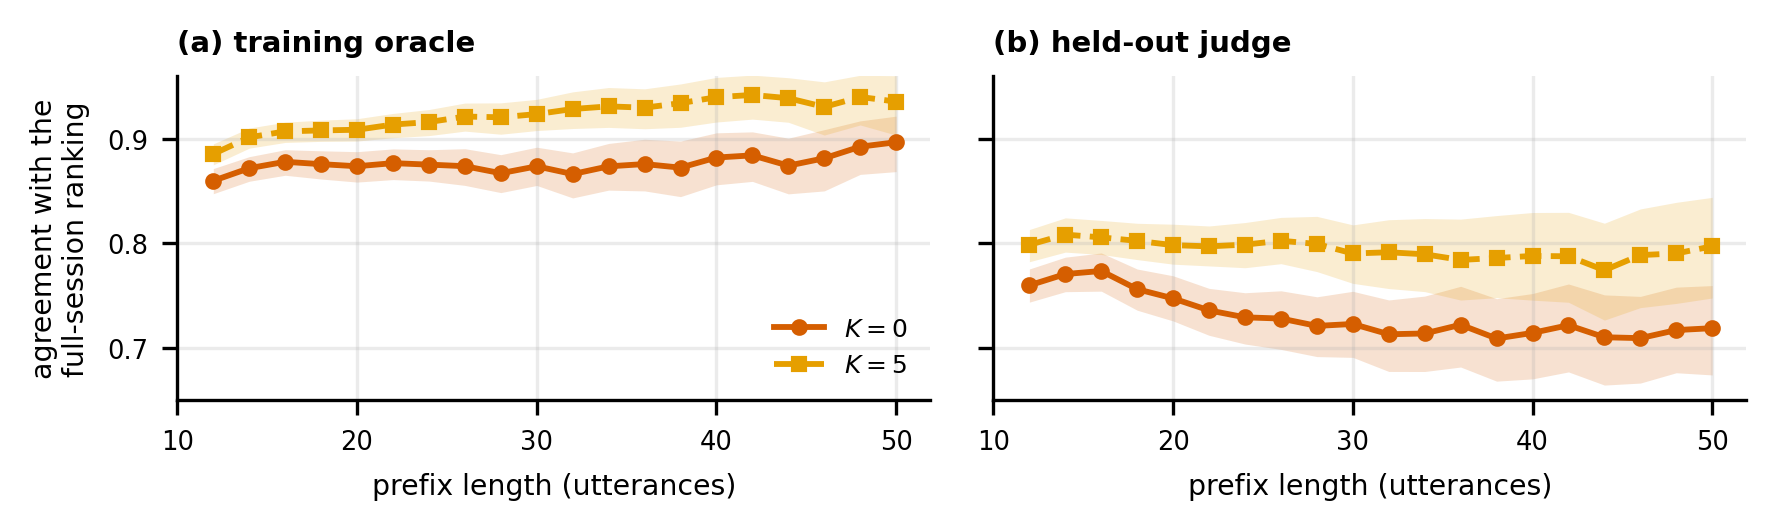
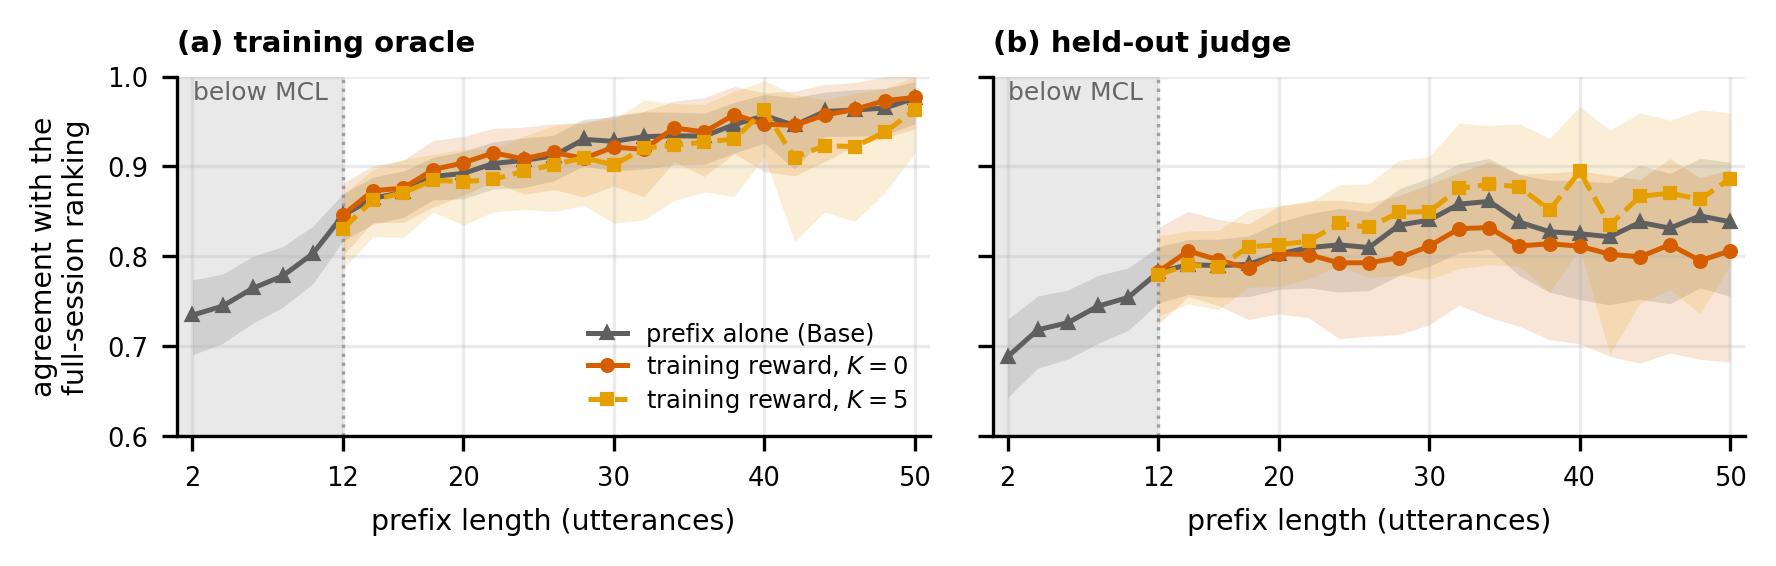
P1 Figure 9: the Base prefix scored alone from 2 utterances beside the iteration-1 training reward, MCL shaded (old pooled version kept as faithfulness_pooled)

diff --git a/papers/2026_grpo_lookahead_mi/render_paper_figures.py b/papers/2026_grpo_lookahead_mi/render_paper_figures.py
@@ -888,6 +888,55 @@ def levels_grid_heldout() -> Path:
 
 
 def faithfulness() -> Path:
+    """Appendix C.1's figure since 2026-10-06 (Lior's round-3 note: the pooled curve below was flat,
+    because MCL=12 removes the part that moves). Per judge panel: the training oracle's score of a
+    Base PREFIX ALONE from 2 utterances (``mechanism.xlsx::faithfulness_prefix_alone_grpo``, pooled
+    over the two Base draws; eda/tools/score_partial.py) and the training reward at the first
+    iteration, which samples from that same Base (``faithfulness_matched_policy_long``, GRPO,
+    ``train_iter_1``), K=0 and K=5, from MCL=12. The region below MCL is shaded. Prints the 2 / 12 /
+    50-utterance values the text quotes."""
+    x = pd.ExcelFile(MECHANISM_XLSX)
+    pa = x.parse("faithfulness_prefix_alone_grpo")
+    pa = pa[pa["sample"] == "pooled"]
+    mp = x.parse(next(s for s in x.sheet_names if s.startswith("faithfulness_matched_policy_lon")))
+    mp = mp[(mp.method == "GRPO") & (mp.cut == "train_iter_1")].copy()
+    mp["n_turns"] = pd.to_numeric(mp.n_turns, errors="coerce")
+    mp = mp[mp.n_turns.notna()]
+    name = "faithfulness_grpo.png"
+    fig, axes = plt.subplots(1, 2, figsize=figsize(name, 0.32), sharey=True)
+    panels = ((PRIMARY, "(a) training oracle"), (HELDOUT, "(b) held-out judge"))
+    grey = "#5f5f5f"
+    for ax, (judge, title) in zip(axes, panels):
+        ax.axvspan(1, 12, color="#e9e9e9", lw=0, zorder=0)
+        ax.axvline(12, color="#9a9a9a", lw=0.8, ls=":", zorder=1)
+        g = pa[pa.judge == judge].sort_values("n_turns")
+        ax.fill_between(g.n_turns, g.ci_lo, g.ci_hi, color=grey, alpha=0.18, lw=0)
+        ax.plot(g.n_turns, g.agreement, color=grey, marker="^", ms=2.6, lw=1.2, label="prefix alone (Base)")
+        m = mp[mp.judge == judge].sort_values("n_turns")
+        for arm, k in (("GRPO_LA0", "K0"), ("GRPO_LA5", "K5")):
+            ax.fill_between(m.n_turns, m[f"{k}_lo"], m[f"{k}_hi"], color=COL[arm], alpha=0.16, lw=0)
+            ax.plot(m.n_turns, m[f"agr_{k}"], color=COL[arm], ms=2.6, lw=1.2,
+                    label=f"training reward, {LAB[arm]}", **STY[arm])
+        ax.set_xticks([2, 12, 20, 30, 40, 50])
+        ax.set_xlim(1, 51)
+        ax.set_xlabel("prefix length (utterances)")
+        ax.set_title(title, loc="left", fontweight="bold")
+    axes[0].text(6.5, 0.995, "below MCL", ha="center", va="top", fontsize=6.0, color="#666666")
+    axes[1].text(6.5, 0.995, "below MCL", ha="center", va="top", fontsize=6.0, color="#666666")
+    axes[0].set_ylim(0.6, 1.0)
+    axes[0].set_ylabel("agreement with the\nfull-session ranking")
+    axes[0].legend(frameon=False, loc="lower right", fontsize=5.8, handlelength=1.6, labelspacing=0.25)
+    out = save_at_width(fig, name, w_pad=1.6)
+    print("prefix alone, pooled Base (must match Appendix C.1 and the method paragraph):")
+    print(pa[pa.n_turns.isin([2, 10, 12, 50])].pivot_table(index="judge", columns="n_turns",
+                                                            values="agreement").round(3).to_string())
+    print("training reward, iteration 1:")
+    print(mp[mp.n_turns.isin([12, 50])].pivot_table(index="judge", columns="n_turns",
+                                                    values=["agr_K0", "agr_K5"]).round(3).to_string())
+    return out
+
+
+def faithfulness_pooled() -> Path:
     """Appendix B.1 (added 2026-09-22 on Doron's "ref specific subsection and related figure"):
     the faithfulness of the training reward by prefix length, GRPO arms, iterations 1-10 pooled,
     one panel per grader -- from ``mechanism.xlsx`` sheet ``faithfulness_curve_long`` (the rows
